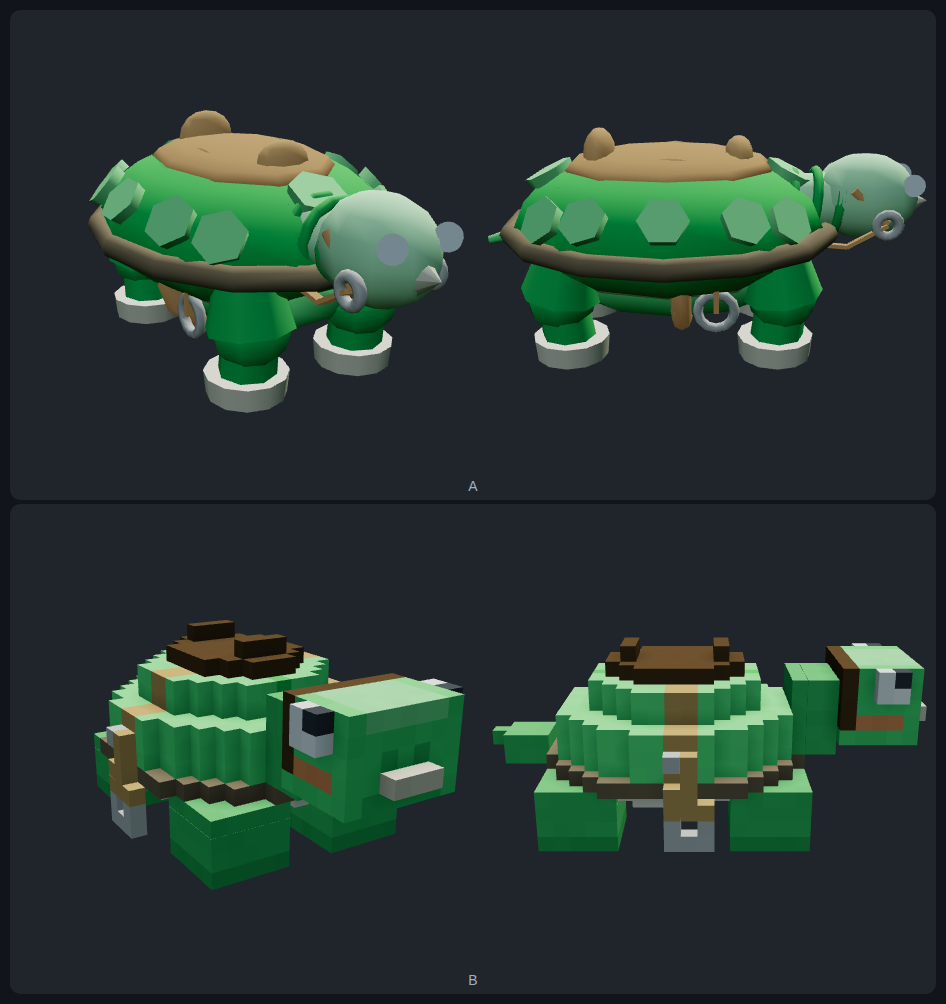
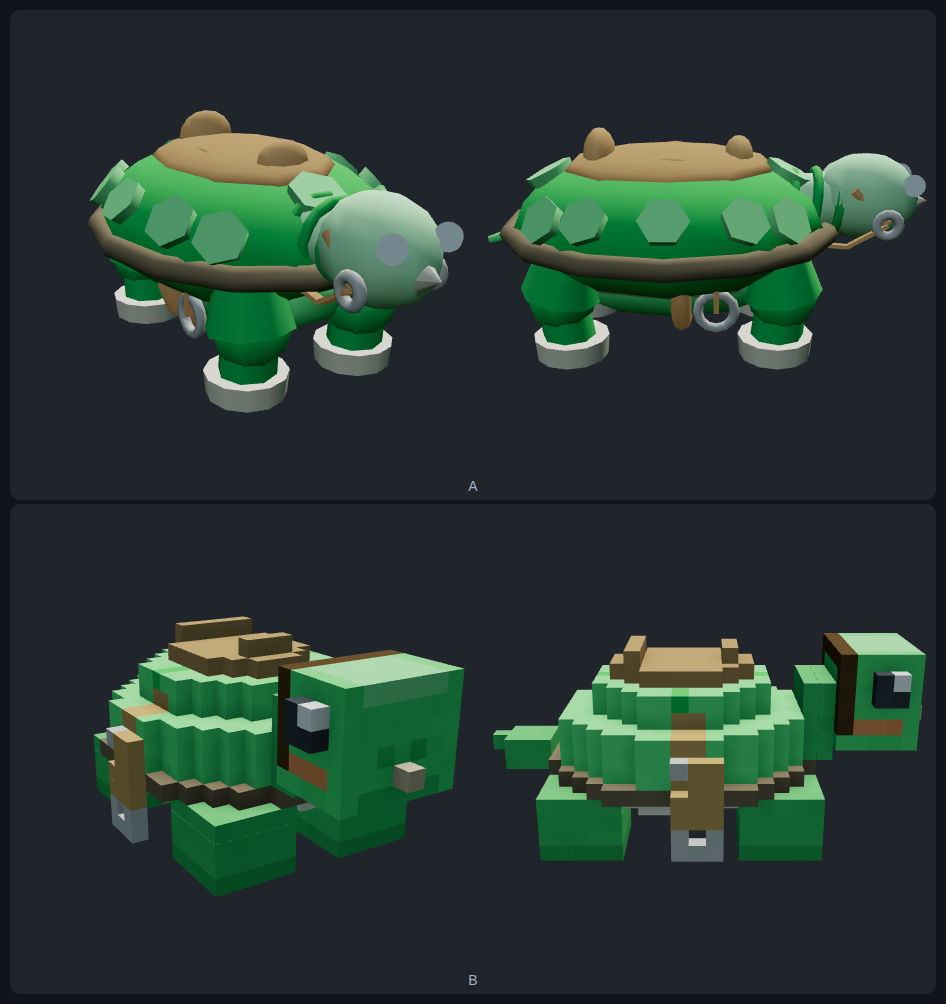
탈것 큐브 시험판 7차 채점 교집합 5건 반영 — 안장을 밝은 새들 브라운으로(근흑 LEATHER 폐기)·뒷턱 5칸, 눈을 검정 우세+하이라이트로 뒤집어 옆모습 회색 단추 해소, 부리 3칸 가로 흰 블록→중앙 1칸 각질 돌출, 뱃대끈 밴드 y8 상한(상면 탄색 슬리버 제거), 등자 끈 2줄, 머리 z-1·높이+1(치비 — bbox 총높이 불변으로 프레이밍 함정 회피) (mount-species-recognizable)

Changed region(s): [[0.5211, 0.6175, 0.981, 0.8645], [0.092, 0.6175, 0.4905, 0.8645], [0.2146, 0.8645, 0.3066, 0.8954]]

diff --git a/web/js/scene3d.js b/web/js/scene3d.js
@@ -14753,6 +14753,12 @@ const Scene3D = {
         //     원인은 이음새가 아니라 **명도**다 — 어두운 색은 큐브별 AO 가 그 위에 얹히면 칸마다
         //     검게 끊긴다(같은 AO 가 밝은 갈색 안장에서는 안 끊긴다). 안장·굴레와 톤도 통일된다.
         const LEATHER = 0x2b1a0c, TRIM = 0xc9a227, IRON = 0x9e9e9e, BLANKET = 0xa9702f;
+        // 🚨 **방석·턱은 SADDLE(밝은 새들 브라운)이다 — LEATHER(0x2b1a0c 근흑)로 되돌리지 말 것.**
+        //    7차 채점 2인 교집합: 게임 앵글에서 안장이 *"명도 낮은 갈색 블록 무더기·진흙 덩이"* 로
+        //    뭉개져 실루엣이 안 읽혔다(비평가 B 의 '하나만 고친다면'이 이것). 어두운 색은 큐브별
+        //    AO 가 얹히는 순간 형태 정보가 죽는다 — 뱃대끈이 ⑲에서 밟은 것과 같은 물리다.
+        //    LEATHER 는 이제 고삐(rein) 전용으로만 남는다.
+        const SADDLE = 0x8a5a2b;
         // XY 평면의 한 칸 두께 사각 고리 — 등자·재갈 고리용. `Voxel.ring` 은 **눕힌(XZ) 링**이라
         // 등자로 쓰면 발이 통과하는 구멍이 위를 보고 누워 버린다(고리는 세워져야 발이 걸린다).
         const ringXY = (r, color) => {
@@ -14803,16 +14809,19 @@ const Scene3D = {
         //    난간이 아니라 **안장머리(horn) 하나 + 낮은 뒷턱(cantle)** 이다 — 앞은 금색 손잡이
         //    한 칸, 뒤는 3칸 낮은 턱만 남긴다(방석 폭 5보다 좁아야 '얹힌 턱'으로 읽힌다).
         const seat = V.merge(
-            V.recolor(V.ellipse(o.rx, o.rz, 1, { y0: o.seatY, color: LEATHER }),
+            V.recolor(V.ellipse(o.rx, o.rz, 1, { y0: o.seatY, color: SADDLE }),
                 // ⚠ 문턱 0.82 → 0.92. 재채점: *"크림색 테두리가 가죽 스티치가 아니라 파이
                 //    크러스트다."* 바깥 한 줄만 남기면 스티치, 두 줄이면 크러스트다. 0.92 는 줄이
                 //    통째로 사라져(캡처) 0.88 로 되돌렸다 — 방석이 다시 '민짜 갈색 욕조'였다.
                 v => ((v.x / o.rx) ** 2 + (v.z / o.rz) ** 2 > 0.88) ? TRIM : undefined),
             // 🚨 세로 혼(1칸 기둥)은 **세 판 연속 오독**됐다("노이즈"→"깃대"→"초/성냥·2톤 노이즈").
-            //    1칸 폭 수직 기둥은 이 격자에서 구조물로 안 읽힌다 — 앞도 뒷턱과 **대칭인 3칸 낮은
-            //    턱(단색)** 으로 간다(3칸 1층은 5·6차에서 욕조 지적 없이 통과한 어휘다).
-            V.at(V.slab(3, 1, 1, LEATHER), 0, o.seatY + 1, cz),
-            V.at(V.slab(3, 1, 1, LEATHER), 0, o.seatY + 1, -cz));
+            //    1칸 폭 수직 기둥은 이 격자에서 구조물로 안 읽힌다 — 앞도 뒷턱과 **대칭인 낮은
+            //    턱(단색)** 으로 간다(1층 턱은 5·6차에서 욕조 지적 없이 통과한 어휘다).
+            //    7차 지시("앞테·뒷테를 1복셀씩 키워")는 **가로로** 받는다 — 뒷턱(cantle)만 5칸.
+            //    세로 승격은 두 번 실패한 방향이라 금지(위 혼 메모), 앞턱 3 < 뒷턱 5 비대칭이
+            //    앞뒤 방향 정보도 겸한다(실물 안장도 cantle 이 넓고 horn 이 좁다).
+            V.at(V.slab(3, 1, 1, SADDLE), 0, o.seatY + 1, cz),
+            V.at(V.slab(5, 1, 1, SADDLE), 0, o.seatY + 1, -cz));
         // 뱃대끈(girth) — 몸통을 한 바퀴 감는 링. **'탈것'이라는 정보의 절반은 이 띠가 진다**:
         // 안장만 있으면 '등에 얹은 상자'이고, 몸을 감는 띠가 보여야 '채운 마구'로 읽힌다.
         // 대비색(진홍)으로 두는 건 안장깔개와 같은 이유 — 등급색 파생이면 몸 위에서 대비가 0이다.
@@ -14859,7 +14868,12 @@ const Scene3D = {
             //    화면에서만 얼룩이 난다). z 1 에는 테두리 칸이 없고((8/8)²+(1/8.4)² > 1), 뱃대끈
             //    버클(z 0)과 옆으로 나란해져 '띠에서 내려온 끈'으로 읽힌다.
             const out = [];
-            for (let y = o.stirrupY + 2; y <= o.strapTopY; y++) out.push({ x: s * o.stirrupX, y: y, z: 1, c: BLANKET });
+            // ⚠ 끈은 **z 1~2 두 줄**이다(7차 채점 2인 교집합 "1복셀 두께 끈이 각도에 따라 끊겨
+            //    보여 등자가 반쯤 떠 있다"). 한 칸 폭 세로줄은 3/4 앵글에서 자기 그림자에 먹혀
+            //    선이 끊긴다 — 두 줄이면 어느 각에서든 한 줄은 빛을 받는다. z 0 은 금지(테두리
+            //    칸(x8, y4, z0)과 z-fighting — 위 z 1 열 메모).
+            for (let y = o.stirrupY + 2; y <= o.strapTopY; y++) for (const z of [1, 2])
+                out.push({ x: s * o.stirrupX, y: y, z: z, c: BLANKET });
             return V.merge(out, V.at(ringYZ(1, IRON), s * o.stirrupX, o.stirrupY, 1)
                 .map(v => (v.y === o.stirrupY + 1) ? Object.assign({}, v, { c: BLANKET }) : v));
         };
@@ -15060,8 +15074,18 @@ const Scene3D = {
         // ⚠ 목 높이 3 → 5 (6차 채점 B — 소켓(⑲)을 넣고도 측면에 남은 "사선 다크 갭"의 실체는
         //    목(y5~7) **위** · 머리 밑턱(z11) 앞의 빈 부피(y8~9 · z9~10)였다). 거북 목은 굵고
         //    짧아야 하므로 길이는 그대로 두고 **높이만** 머리 어깨선(y9)까지 채운다.
-        let headV = V.merge(V.at(V.slab(5, 5, 2, SKIN_D), 0, 5, 9),         // 목 — 폭 5, 머리보다 낮게 시작
-                            V.at(V.slab(7, 5, 5, SKIN), 0, 6, 13));         // 머리 — 한 칸 올려 얹는다
+        // 🚨 **7차 채점 — 옆모습에서 목이 수평으로 길어 머리가 몸에서 멀고, 머리 부피가 등딱지
+        //    대비 작아 "치비가 아니라 실제 거북 비례"(비평가 1 지적. 비평가 2 도 치비 7 에서
+        //    옆모습 감점).** 두 손잡이를 같이 당긴다:
+        //    ⓐ **목 길이 2→1 · 머리를 한 칸 몸쪽으로**(z 11~15 → 10~14) — 머리가 소켓(z8)·
+        //       목(z9)에 이어 z10 부터 서므로 옆모습에서 '몸에 박힌 큰 머리'가 된다. 그림자 골
+        //       ("머리-몸 사이 깊은 골 — 분리된 부품") 도 같이 준다.
+        //    ⓑ **머리 높이 5→6**(y6~11) — 꼭대기가 등딱지(y9)보다 **2칸** 위. ⚠ y11 은 안장
+        //       턱(seatY+1 = 11)과 같은 높이라 **bbox 총높이가 안 는다** = ⑯의 프레이밍 함정
+        //       (bbox 가 늘면 자동 프레이밍이 몸을 줄인다)을 비켜 간다. 더 키우려면 폭·깊이가
+        //       아니라 이 축부터 확인할 것.
+        let headV = V.merge(V.at(V.slab(5, 5, 1, SKIN_D), 0, 5, 9),         // 목 — 폭 5, 한 칸(짧고 굵게)
+                            V.at(V.slab(7, 6, 5, SKIN), 0, 6, 12));         // 머리 — z10~14 · y6~11
         // 🚨 **눈은 옆면 정중앙이다(재채점 지시).** 2판은 앞면 윗줄 모서리에 붙어 있어 비평가가
         //    *"나사 구멍/환풍구"* 로 읽었다. 거북 눈은 실제로도 **머리 좌우면**에 있고, 이 시트의
         //    두 각(요각 0.55 · π/2) 모두에서 보이는 면도 옆면이다 — 앞면 눈은 옆모습에서 사라진다.
@@ -15086,13 +15110,13 @@ const Scene3D = {
             //    두꺼운 밴드'라며 뺐던 자리지만, 그때는 **정수리~볼이 안 이어진 채** 볼만 칠해서였다 —
             //    한 줄로 이어지면 굴레 볼끈이다. 다음 채점이 또 '밴드'라 하면 그땐 정수리 줄을 빼고
             //    버클만 남기는 쪽이 다음 수다(반대 방향은 이미 두 번 실패).
-            if (v.z === 11 && (v.y === 10 || (Math.abs(v.x) === 3 && v.y >= 7))) return LEATHER;
-            if (Math.abs(v.x) === 3 && v.y === 7 && v.z >= 11 && v.z <= 14) return CHEEK;  // 뺨 줄무늬
-            if (v.z === 15 && v.y === 6 && Math.abs(v.x) <= 2) return SKIN_D;   // 입선 한 줄
-            if (v.z === 15 && v.y === 8 && Math.abs(v.x) === 1) return SKIN_D;  // 콧구멍 두 칸
+            if (v.z === 10 && (v.y === 11 || (Math.abs(v.x) === 3 && v.y >= 7))) return LEATHER;
+            if (Math.abs(v.x) === 3 && v.y === 7 && v.z >= 10 && v.z <= 13) return CHEEK;  // 뺨 줄무늬
+            if (v.z === 14 && v.y === 6 && Math.abs(v.x) <= 2) return SKIN_D;   // 입선 한 줄
+            if (v.z === 14 && v.y === 8 && Math.abs(v.x) === 1) return SKIN_D;  // 콧구멍 두 칸
             // 면 분할 — 정수리 한 줄만 밝게. 2판은 턱 줄까지 어둡게 갈랐는데, 머리가 커진 3판에서는
             // 가로줄이 둘이면 **머리가 층진 상자**로 보인다(등딱지에서 층을 줄인 것과 같은 이유).
-            if (v.y === 10 && v.z >= 11 && Math.abs(v.x) < 3) return SKIN_L;
+            if (v.y === 11 && v.z >= 10 && Math.abs(v.x) < 3) return SKIN_L;
             return undefined;
         });
         //    ⚠ 각질 부리는 **recolor 뒤에** 붙인다 — 앞면 색 구획(입선·콧구멍)이 부리 칸을 같이
@@ -15107,16 +15131,25 @@ const Scene3D = {
         //      (voxel 캐릭터의 눈이 거의 언제나 돌출인 이유가 이것이다 — 면에 칠한 눈은 창이 된다.)
         //      ⚠ 동공은 **앞·위 칸**(6차 채점 B: 하단 뒤 코너 동공은 "초점 나간 표정" — 시선은
         //         진행 방향을 봐야 산다).
+        // 🚨 **눈은 검정 우세다(7차 채점 2인 교집합 — 흰자 우세 2×2 는 옆모습에서 "작은 회색
+        //    사각·졸린/초점 나간 인상"으로 퇴화).** 3/4 에서는 흰자 3 + 동공 1 이 귀엽게 읽혔지만
+        //    옆(π/2)에서는 2×2 면 전체가 보여 흰 바탕에 점 하나 = 회색 단추가 된다. 치비 voxel
+        //    표준형(⑯이 이미 적어 둔 그것)으로 뒤집는다 — **큰 검은 눈 3칸 + 하이라이트 흰 한 칸
+        //    (앞·위 = 시선이 진행 방향)**. 검은 공동 함정(3차)은 '면에 칠한 3×3'의 것이고, 돌출
+        //    2×2 는 얼굴이 남아 안 걸린다.
         const eye = (sx) => [
-            { x: sx * 4, y: 10, z: 13, c: 0xf4f6f8 }, { x: sx * 4, y: 10, z: 14, c: EYE },
-            { x: sx * 4, y: 9, z: 13, c: 0xf4f6f8 }, { x: sx * 4, y: 9, z: 14, c: 0xf4f6f8 },
+            { x: sx * 4, y: 10, z: 12, c: EYE }, { x: sx * 4, y: 10, z: 13, c: 0xf4f6f8 },
+            { x: sx * 4, y: 9, z: 12, c: EYE }, { x: sx * 4, y: 9, z: 13, c: EYE },
         ];
-        //  🚨 부리 폭 5 → **3**(4차 채점 2인 교집합 — A *"좌우 관통, 오리 부리"* · B *"담배/뼈다귀
-        //     문 것"*). 얼굴 폭(7)만큼 가로지르면 물체를 문 것이고, 가운데 3칸이면 각질 윗턱이다.
-        headV = V.merge(headV, V.at(V.slab(3, 1, 1, BEAK), 0, 7, 16),       // 부리 — 입선 바로 위 한 칸
+        //  🚨 부리 폭 5 → 3 → **1**(7차 채점 2인 교집합 — 3칸도 3/4 앵글에서 볼 옆으로 삐져나온
+        //     **가로 흰 블록**이라 A *"담배/엄니가 옆으로 난 것"* · B *"뼈다귀를 문 것"*. 비평가 1 의
+        //     '하나만 고친다면'이 이것). 처방 그대로 **전면 하단 중앙 한 칸 돌출**로 — 폭이 있으면
+        //     사선 앵글에서 반드시 옆면이 보인다. 색도 크림(0xcbbb9a)에서 각질 갈색으로 내려
+        //     '흰 이물'이 아니라 윗턱으로 읽히게 한다.
+        headV = V.merge(headV, [{ x: 0, y: 7, z: 15, c: 0xa8916b }],        // 부리 — 입선 위 중앙 한 칸
             eye(1), eye(-1),
             //  볼 버클 — 머리 옆면(|x| 3)에서 한 칸 도드라진다. 고삐가 여기서 나간다.
-            { x: 4, y: 7, z: 11, c: 0x9e9e9e }, { x: -4, y: 7, z: 11, c: 0x9e9e9e });
+            { x: 4, y: 7, z: 10, c: 0x9e9e9e }, { x: -4, y: 7, z: 10, c: 0x9e9e9e });
         g.userData.head = part(headV, 0, 5, 9);                             // 피벗 = 목 밑동
         // ⑷ 꼬리 — 머리와 **크기가 비슷하면 앞뒤가 안 갈린다**(비평가 지적: 옆에서 양방향 생물).
         // 🚨 **'떠 있는 선반' 종결(재채점 지적)**: 2판 꼬리는 z −12~−10 인데 등딱지 뒤끝이 z −8 이라
@@ -15167,7 +15200,12 @@ const Scene3D = {
         // 뱃대끈 밴드 — 몸 셀에 칠한다(voxelTackVox 의 girthBand 문법). 링을 띄우던 시절의
         // 슬릿·대각 끊김이 원천적으로 안 생긴다. y3(배딱지)부터 위로 — 배 밑까지 감아 내려간
         // 그림이 되고, 등 위 구간은 안장이 덮는다.
-        shell = V.recolor(shell, v => (tack.girthBand(v) && v.y >= 3) ? tack.girthColor : undefined);
+        // 🚨 **밴드는 y8 까지만 — y9(등딱지 최상층)는 칠하지 말 것(7차 채점 비평가 2: "초록 티어
+        //    사이사이로 1복셀 폭 황갈색 줄이 지그재그로 새어 나온다 — z-파이팅성 노이즈").** y9 를
+        //    칠하면 안장(rx 3.8) 밖 상면 칸들의 **윗면**이 위에서 그대로 보여 등딱지 꼭대기에 탄색
+        //    조각이 흩어진다. y8 은 위를 y9 가 덮으므로 옆면(= 띠)만 남는다 — 실물도 뱃대끈의
+        //    윗구간은 안장 스커트에 가려 안 보이는 게 정상이다.
+        shell = V.recolor(shell, v => (tack.girthBand(v) && v.y >= 3 && v.y <= 8) ? tack.girthColor : undefined);
         part(shell, 0, 0, 0);
         part(tack.seat, 0, 0, 0, TACK_OPTS);
         part(tack.girth, 0, 0, 0, TACK_OPTS);
